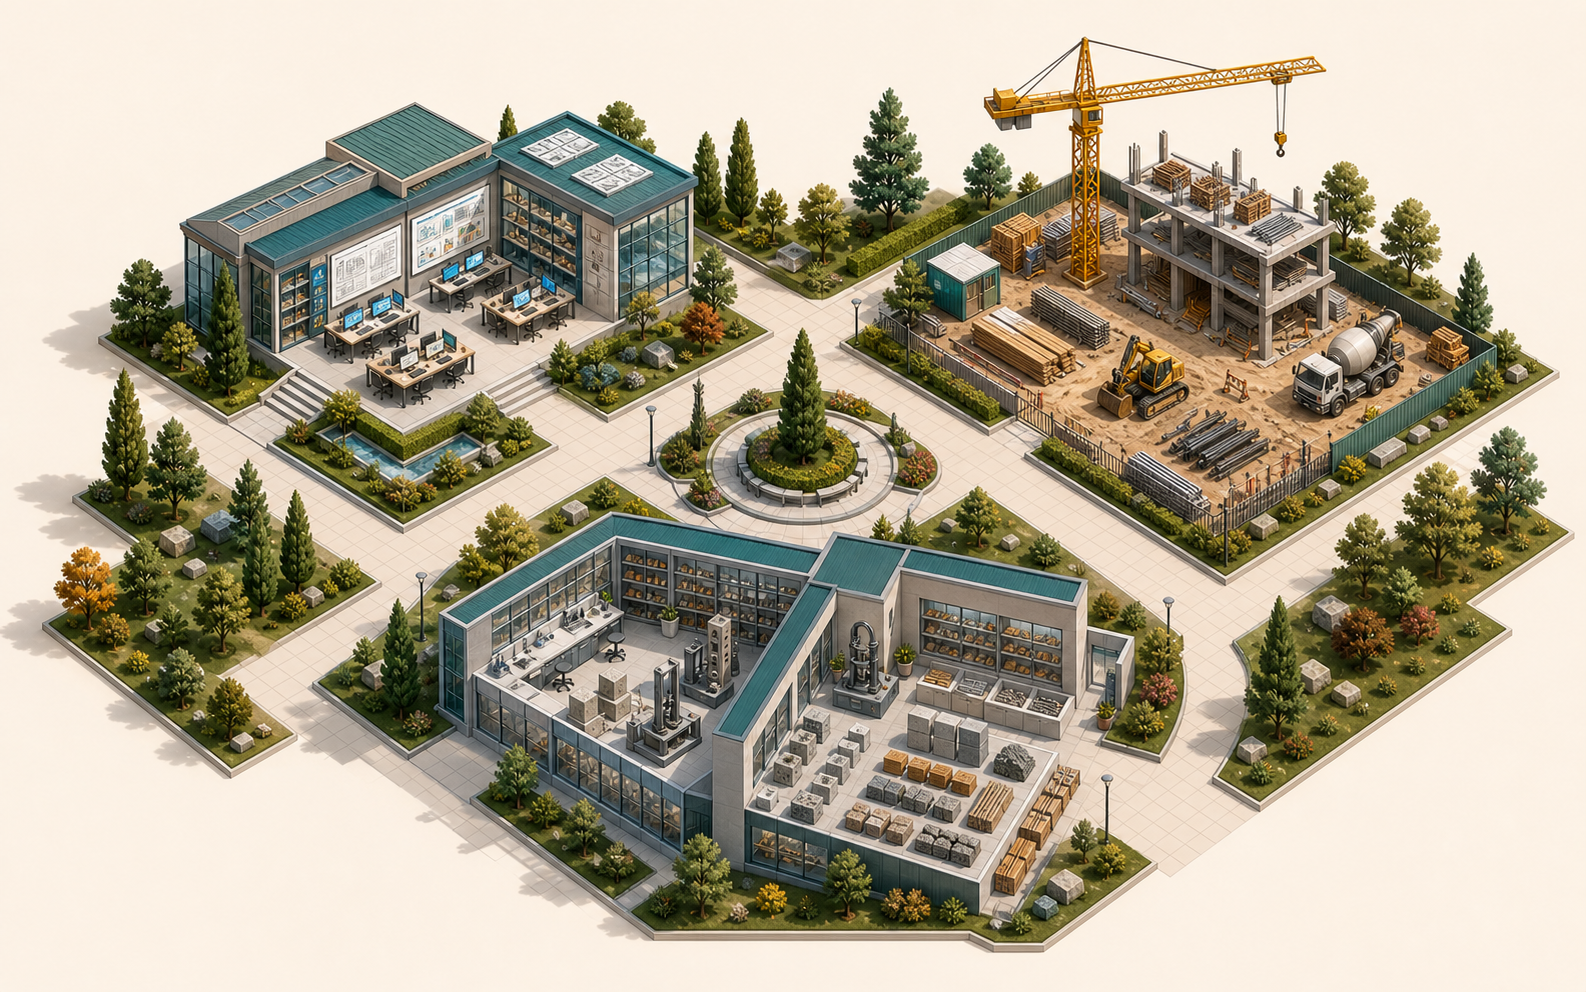
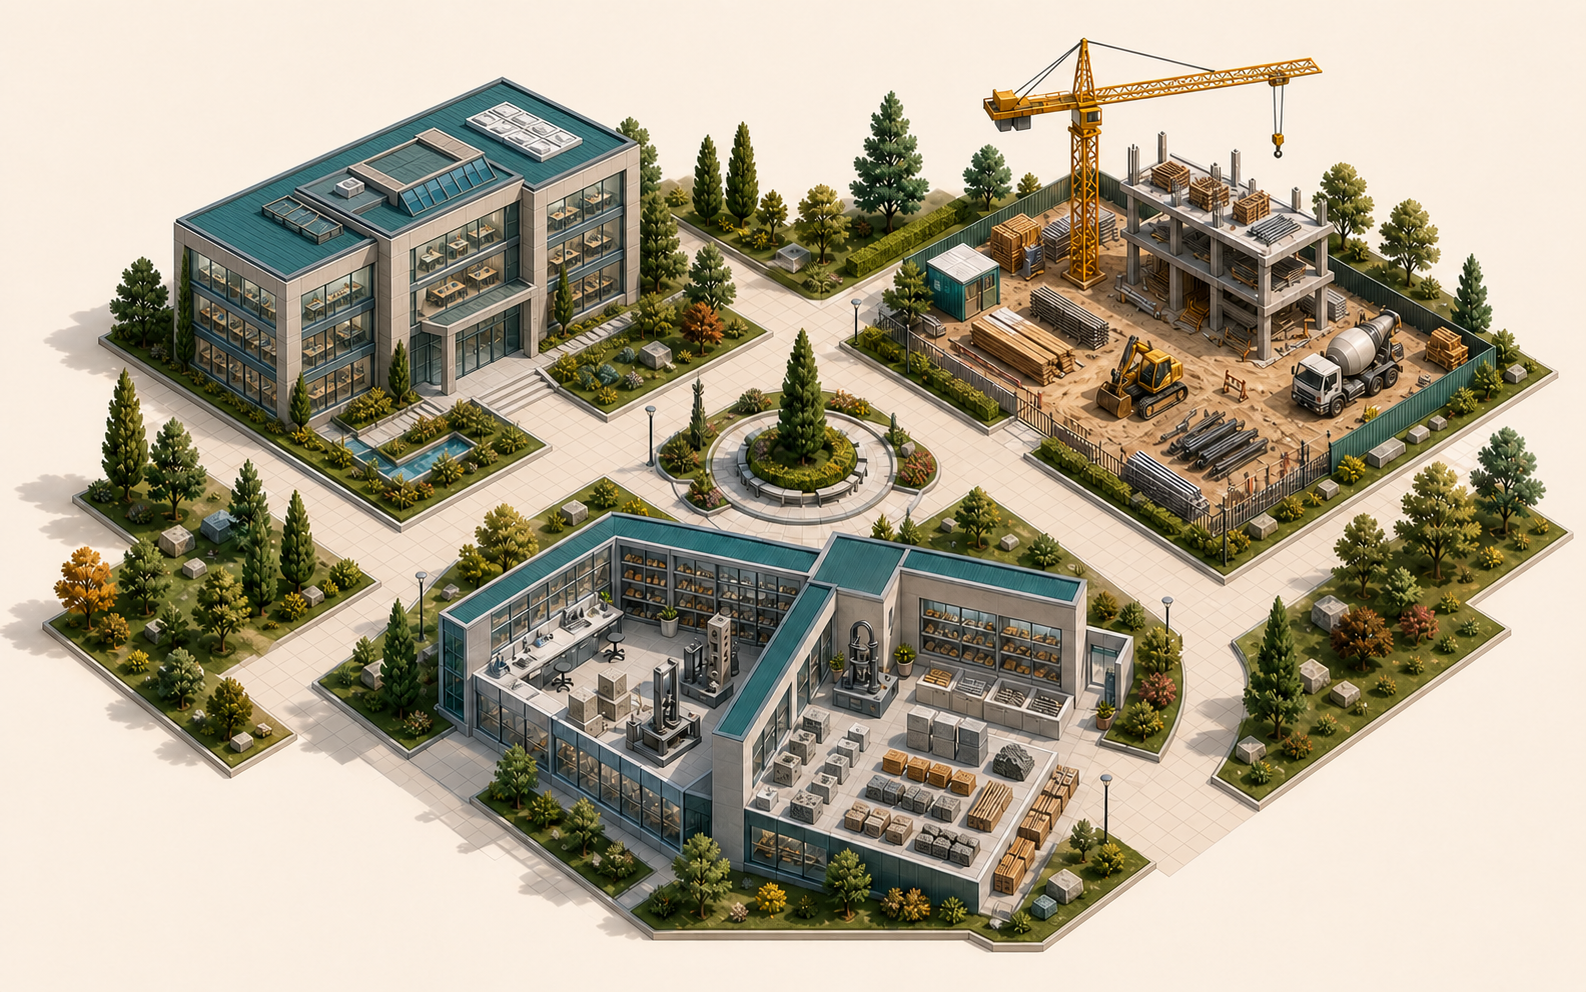
v03

Changed region(s): [[0.0309, 0.0312, 0.9887, 0.9688], [0.2472, 0.7188, 0.2781, 0.75]]

diff --git a/styles.css b/styles.css
@@ -211,6 +211,11 @@ h3 {
   padding: 18px 18px 12px;
 }
 
+.teaching-map-card {
+  margin: 0 auto;
+  max-width: 760px;
+}
+
 .map-caption {
   color: var(--muted);
   font-size: 0.92rem;
@@ -278,18 +283,18 @@ h3 {
 }
 
 .label-projects {
-  --x: 25%;
-  --y: 26%;
-}
-
-.label-procedures {
-  --x: 76%;
+  --x: 24%;
   --y: 30%;
 }
 
+.label-procedures {
+  --x: 74%;
+  --y: 31%;
+}
+
 .label-materials {
-  --x: 48%;
-  --y: 73%;
+  --x: 50%;
+  --y: 72%;
 }
 
 .section {

diff --git a/docencia.html b/docencia.html
@@ -37,7 +37,7 @@
 
     <section class="section">
       <div class="container">
-        <div class="campus-card" aria-label="Mapa interactivo de asignaturas">
+        <div class="campus-card teaching-map-card" aria-label="Mapa interactivo de asignaturas">
           <p class="map-caption">Elige una asignatura</p>
           <div class="campus-image-wrap">
             <img